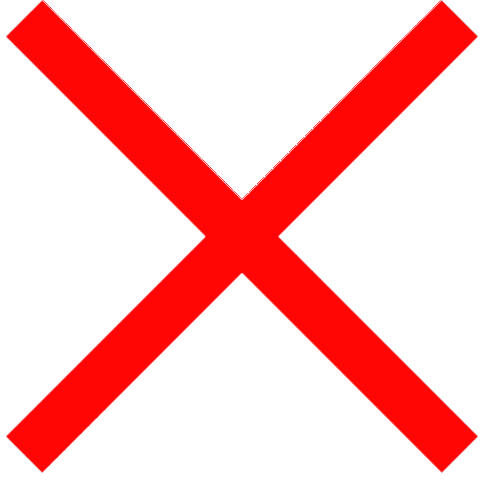
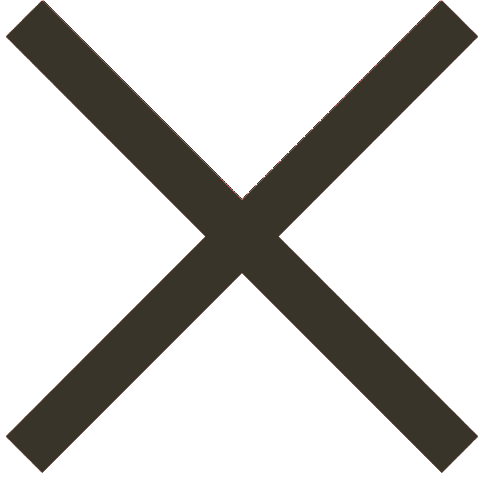
+

Changed region(s): [[0.0, 0.0, 0.9917, 1.0]]

diff --git a/public/index.css b/public/index.css
@@ -8,11 +8,11 @@
 
 :root 
 {
-  --dark-color: #030303;
+  --dark-color: rgb(48, 54, 42);
   --light-color: #fff;
-  --color-1: #c20912;
-  --color-2: #460202;
-  --color-3: rgb(113,114,116);
+  --color-1: rgb(166, 191,162);
+  --color-2: rgb(48, 54, 42);
+  --color-3: rgb(48, 54, 42);
 }
 
 /* Scrollbar */
@@ -23,7 +23,7 @@ body::-webkit-scrollbar-track {
   background: var(--dark-color);
 }
 body::-webkit-scrollbar-thumb {
-  background-color: var(--color-2) ;
+  background-color: var(--color-1) ;
 }
 
 * 
@@ -46,7 +46,7 @@ body
   font-size: 33px;
 }
 
-#preloader
+.preloader
 {
   background-color: var(--dark-color);
   height: 100vh;
@@ -75,7 +75,33 @@ body
   animation-iteration-count: infinite;
   animation-timing-function: linear;
 }
-   
+
+.loader:empty {
+  position: absolute;
+  top: calc(50% - 4em);
+  left: calc(50% - 4em);
+  width: 6em;
+  height: 6em;
+  border: 1.1em solid rgba(0, 0, 0, 0.2);
+  border-left: 1.1em solid #000000;
+  border-radius: 50%;
+  animation: load8 1.1s infinite linear;
+}
+
+@keyframes load8 {
+  0% {
+    transform: rotate(0deg);
+  }
+  100% {
+    transform: rotate(360deg);
+  }
+}
+
+.preloader--hide 
+{
+  opacity: 0;
+}
+
   @keyframes rotation {
     0% {
         transform:rotate(0deg);

diff --git a/src/Preloader.jsx b/src/Preloader.jsx
@@ -1,22 +1,25 @@
 import React from 'react'
 
-// Spinner Logic
-const spinner     = document.getElementById('preloader')
-const spinnerNone = () => spinner.style.display = 'none'
-const spinnerLoad = () => window.setTimeout(spinnerNone, 4000)
-window.addEventListener('load', spinnerLoad)
+// // Spinner Logic
+// const showLoader = () => loader.classList.remove('preloader--hide');
+// const hideLoader = () => loader.classList.add('preloader--hide');
 
-console.log('Preloader-jsx');
-console.log('Spinner', spinner);
 
-// Spinner Visual
-function Preloader()
-{
-return(
-    <div id = 'preloader'>
-        <div className = 'preloader-img'></div>
-    </div>
-    )
-}
+// const spinner     = document.querySelector('.preloader')
+// const spinnerNone = () => spinner.style.display = 'none'
+// const spinnerLoad = () => window.setTimeout(spinnerNone, 4000)
+// window.addEventListener('load', spinnerLoad)
+
+// console.log('Spinner', spinner);
+
+// // Spinner Visual
+// function Preloader()
+// {
+// return(
+//     <div className= 'preloader'>
+//         <div className = 'preloader-img'></div>
+//     </div>
+//     )
+// }
 
 export default Preloader

diff --git a/src/App.jsx b/src/App.jsx
@@ -7,6 +7,26 @@ import SectionC  from './SectionC'
 import SectionD  from './SectionD'
 import Footer    from './Footer'
 
+
+// Spinner Logic
+// const spinner     = document.querySelector('.preloader')
+// console.log('Spinner', spinner);
+
+// const spinnerNone = () => spinner.style.display = 'none'
+// const spinnerLoad = () => window.setTimeout(spinnerNone, 4000)
+// window.addEventListener('load', spinnerLoad)
+
+
+// Spinner Visual
+// function Preloader()
+// {
+// return(
+//     <div className= 'preloader'>
+//         <div className = 'preloader-img'></div>
+//     </div>
+//     )
+// }
+
 function App()
 {
     return(
